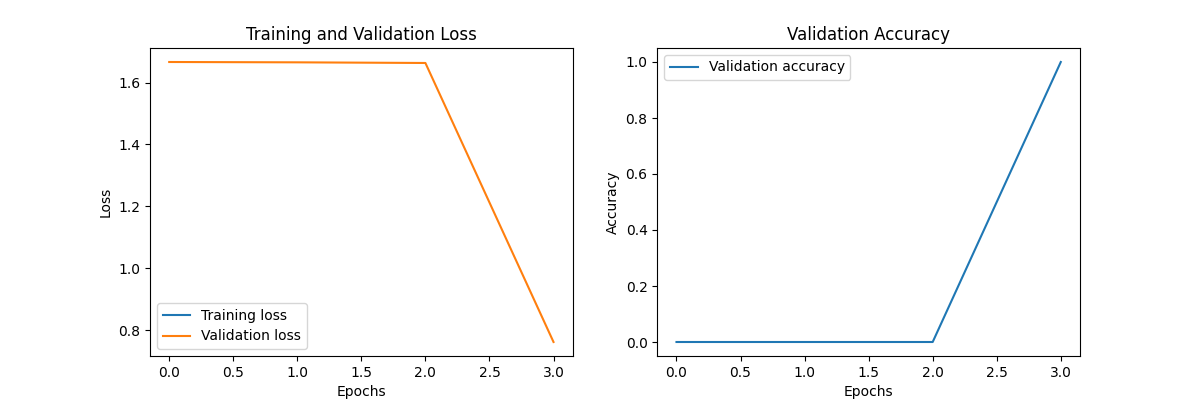
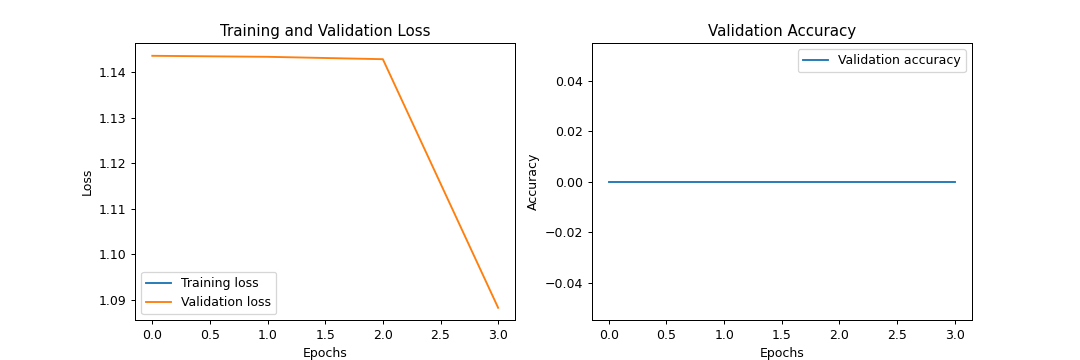
fine tunning parameters

diff --git a/main.py b/main.py
@@ -44,10 +44,25 @@ class SentimentDataset(Dataset):
             'labels': torch.tensor(score, dtype=torch.long)
         }
 
+class FineTuningConfig:
+    def __init__(self):
+        self.num_epochs = 3
+        self.train_batch_size = 8
+        self.eval_batch_size = 8
+        self.learning_rate = 5e-5
+        self.warmup_steps = 500
+        self.weight_decay = 0.01
+        self.max_seq_length = 512
+        self.output_dir = './results'
+        self.logging_dir = './logs'
+
+
 # Function to compute accuracy
 def compute_metrics(p):
     preds = np.argmax(p.predictions, axis=1)
     return {"accuracy": accuracy_score(p.label_ids, preds)}
+
+config = FineTuningConfig()
 
 # Read and preprocess the dataset
 reviews, scores = read_dataset(path_to_dataset)  # Replace with your dataset path
@@ -60,22 +75,24 @@ val_reviews, test_reviews, val_scores, test_scores = train_test_split(temp_revie
 tokenizer = BertTokenizer.from_pretrained('bert-base-uncased')
 
 # Create dataset objects for training, validation, and testing
-train_dataset = SentimentDataset(train_reviews, train_scores, tokenizer)
-val_dataset = SentimentDataset(val_reviews, val_scores, tokenizer)
-test_dataset = SentimentDataset(test_reviews, test_scores, tokenizer)
+train_dataset = SentimentDataset(train_reviews, train_scores, tokenizer, max_len=config.max_seq_length)
+val_dataset = SentimentDataset(val_reviews, val_scores, tokenizer, max_len=config.max_seq_length)
+test_dataset = SentimentDataset(test_reviews, test_scores, tokenizer, max_len=config.max_seq_length)
 
 # BERT model for sequence classification with 3 classes
 model = BertForSequenceClassification.from_pretrained('bert-base-uncased', num_labels=3)
 
+
 # Training arguments
 training_args = TrainingArguments(
-    output_dir='./results',
-    num_train_epochs=3,
-    per_device_train_batch_size=8,
-    per_device_eval_batch_size=8,
-    warmup_steps=500,
-    weight_decay=0.01,
-    logging_dir='./logs',
+    output_dir=config.output_dir,
+    num_train_epochs=config.num_epochs,
+    per_device_train_batch_size=config.train_batch_size,
+    per_device_eval_batch_size=config.eval_batch_size,
+    learning_rate=config.learning_rate,
+    warmup_steps=config.warmup_steps,
+    weight_decay=config.weight_decay,
+    logging_dir=config.logging_dir,
     evaluation_strategy="epoch"
 )
 
@@ -83,12 +100,12 @@ training_args = TrainingArguments(
 trainer = Trainer(
     model=model,
     args=training_args,
+    train_dataset=train_dataset,
+    eval_dataset=val_dataset,
     compute_metrics=compute_metrics
 )
 
 # Train the model
-trainer.train_dataset = train_dataset
-trainer.eval_dataset = val_dataset
 trainer.train()
 
 # Evaluate the model on the test set	
